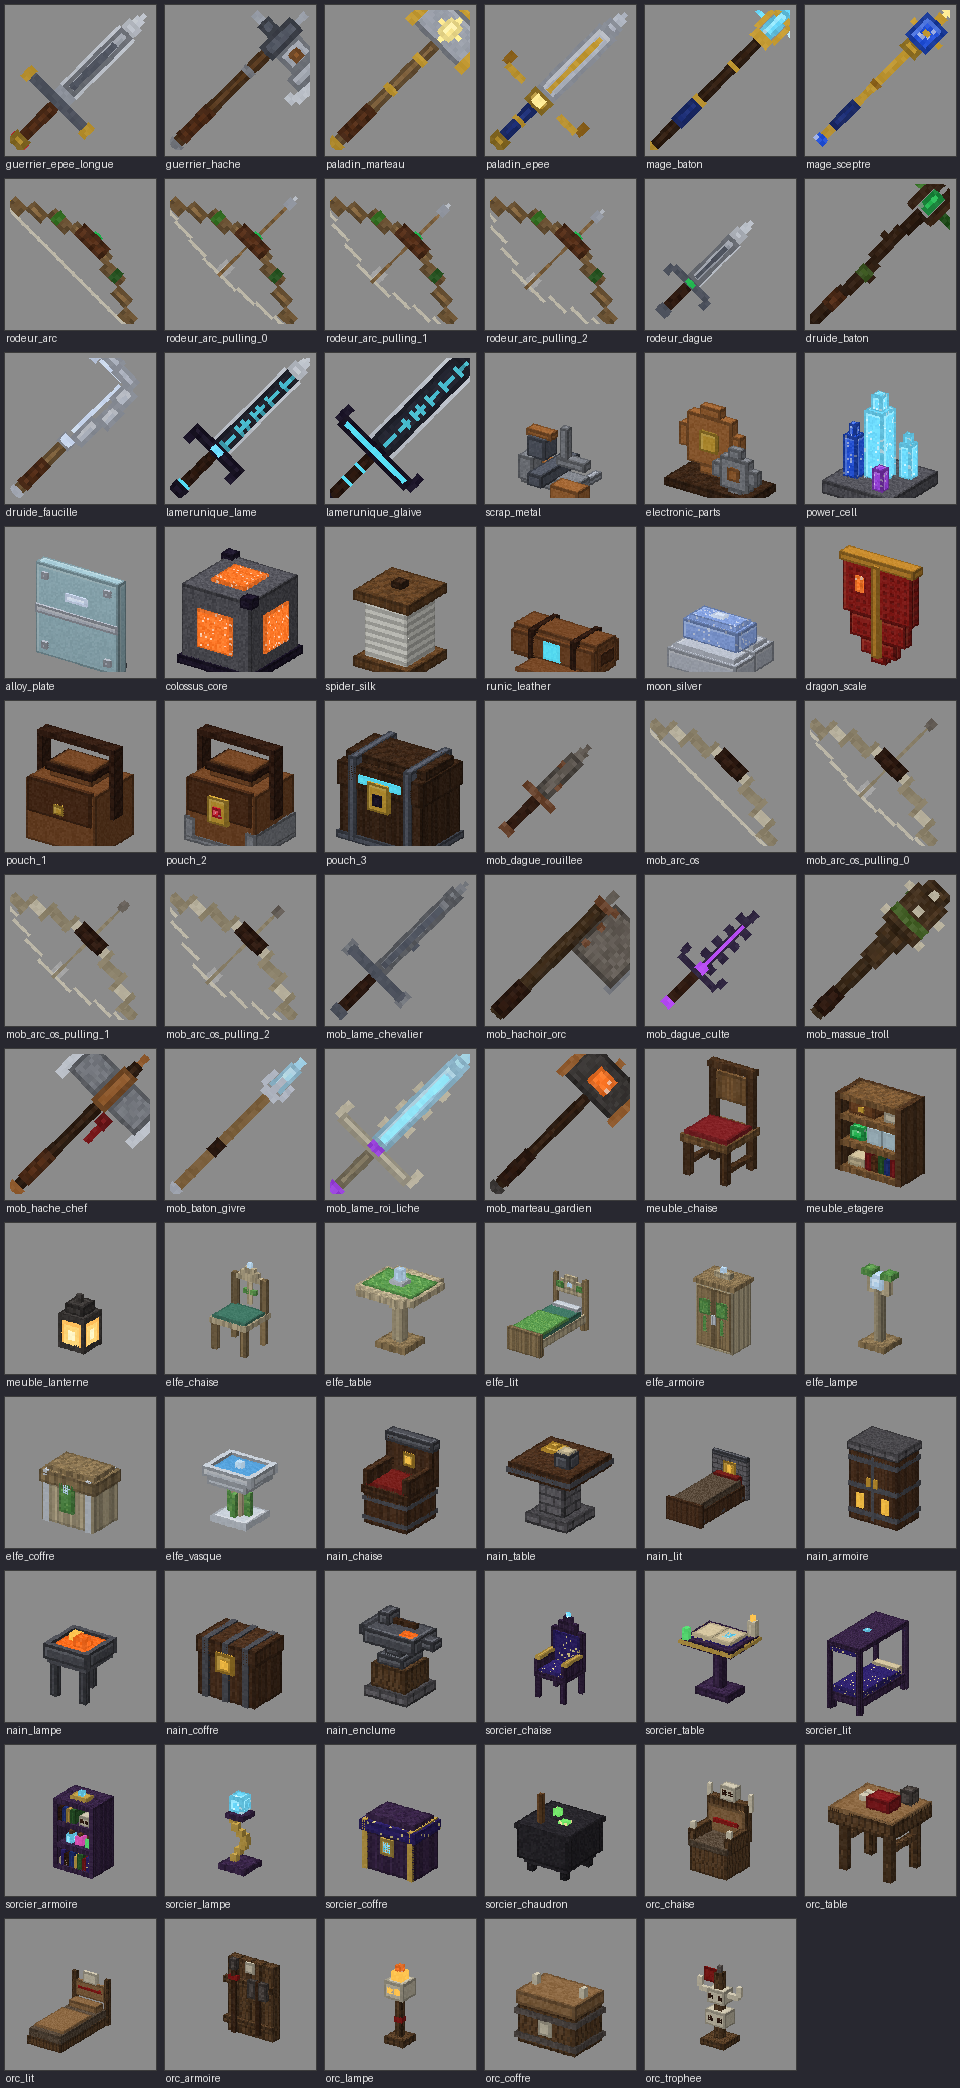
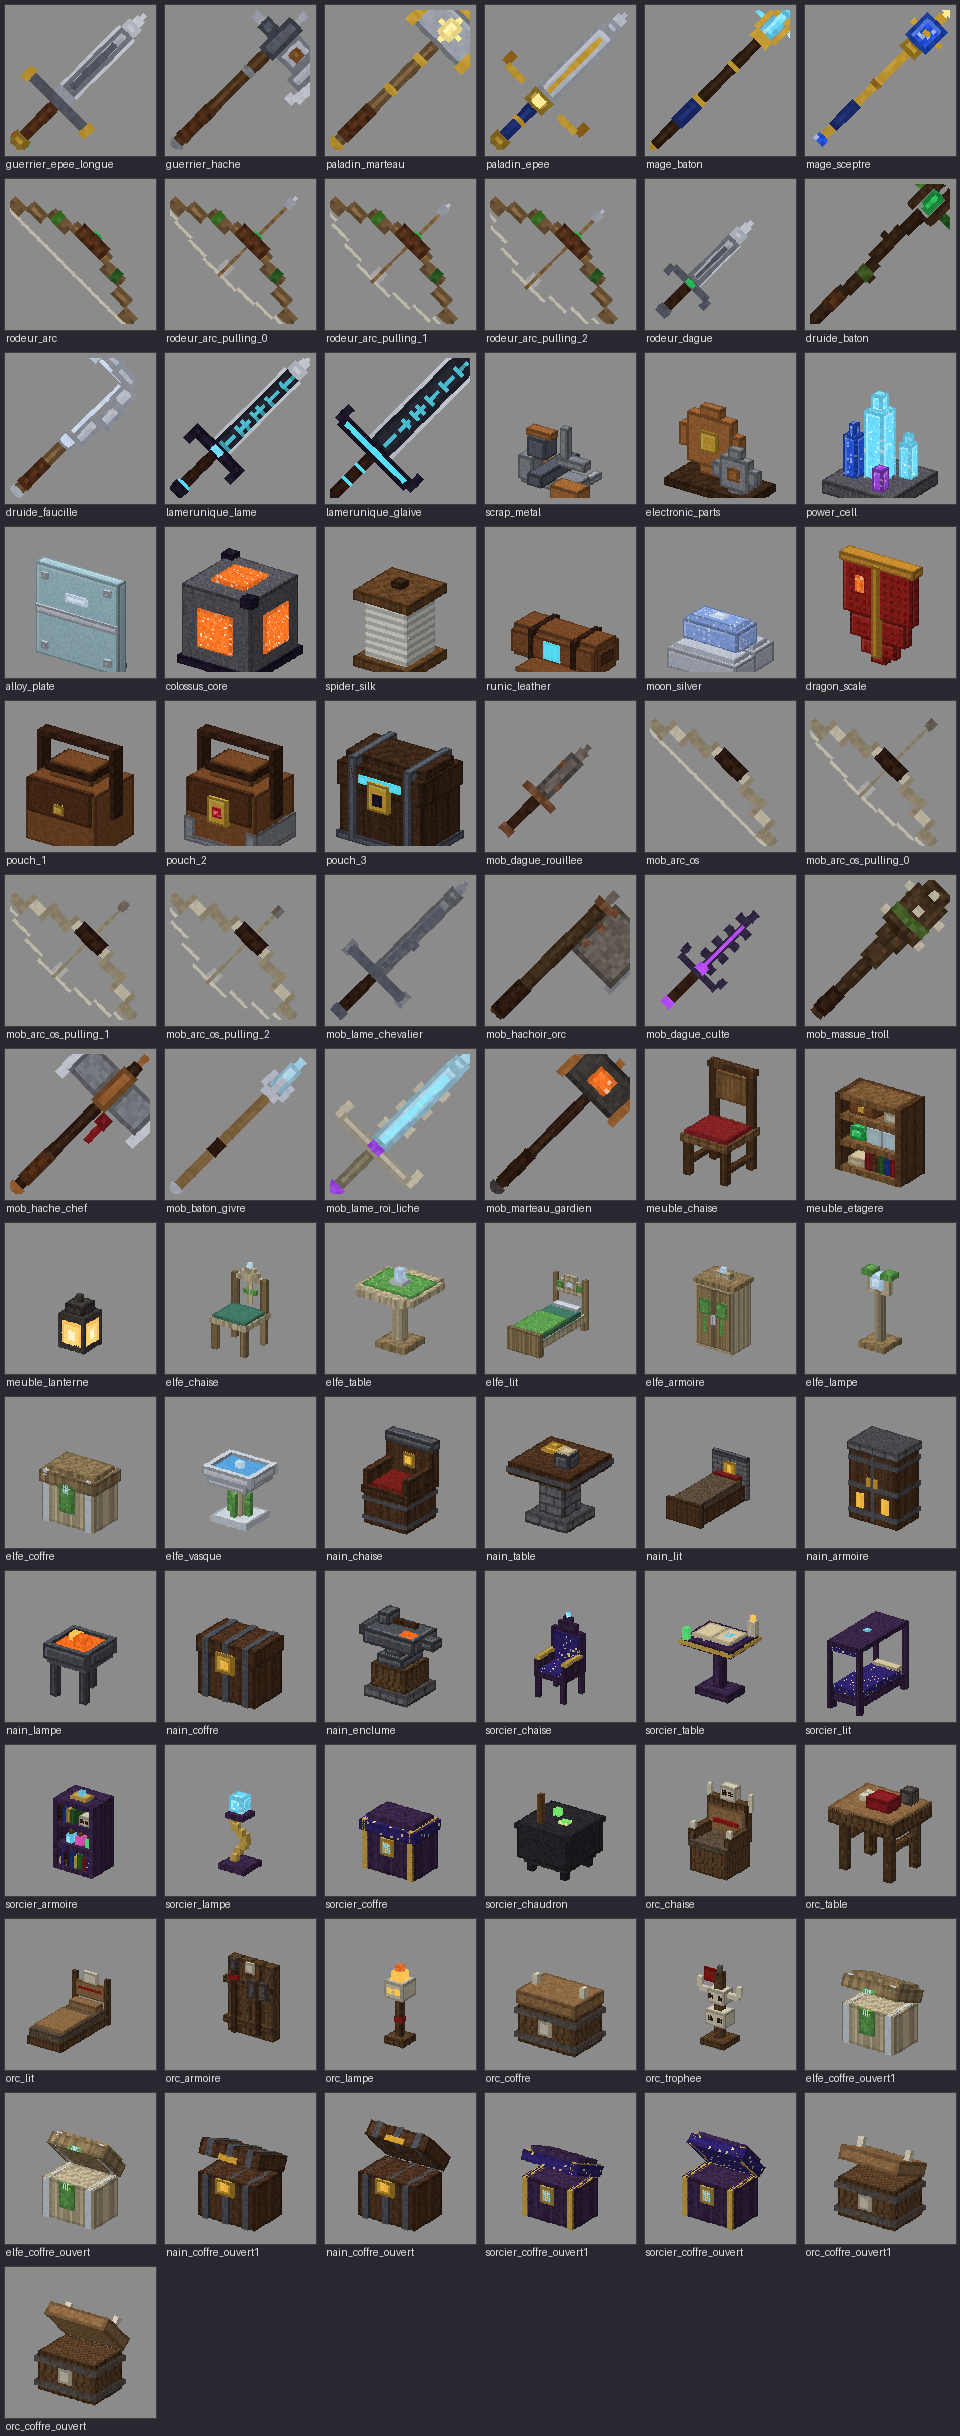
Coffres de style : images de couvercle ouvert pour l'animation d'ouverture
Claude-Session: https://claude.ai/code/session_01KbhmanjnJ4pmktcpPfJYBy

diff --git a/src/items/meubles.py b/src/items/meubles.py
@@ -620,7 +620,37 @@ def fitted(fn):
     return make
 
 
+# Couvercle des coffres : hauteur de la charnière (le couvercle pivote autour de l'arête arrière, côté z haut).
+LIDS = {'elfe_coffre': 8, 'nain_coffre': 9, 'sorcier_coffre': 8, 'orc_coffre': 8}
+
+
+def opened(fn, lid_y, angle, suffix):
+    """Variante du coffre au couvercle soulevé de angle degrés (images de l'animation d'ouverture Oraxen)."""
+    def make():
+        it = fitted(fn)()
+        it.id += suffix
+        els = []
+        for e in it.els:
+            if e['from'][1] < lid_y < e['to'][1]:
+                low, high = dict(e), dict(e)
+                low['to'] = [e['to'][0], lid_y, e['to'][2]]
+                high['from'] = [e['from'][0], lid_y, e['from'][2]]
+                els += [low, high]
+            else:
+                els.append(e)
+        lid = [e for e in els if e['from'][1] >= lid_y]
+        back = max(e['to'][2] for e in lid)
+        for e in lid:
+            e['rot'] = {'angle': angle, 'axis': 'x', 'origin': [8, lid_y, back]}
+        it.els = els
+        return it
+    make.__name__ = fn.__name__ + suffix
+    return make
+
+
 STYLE_ITEMS = [fitted(fn) for _, (_, _, fns) in STYLES.items() for fn in fns]
+_by_name = {fn.__name__: fn for _, (_, _, fns) in STYLES.items() for fn in fns}
+OPEN_ITEMS = [opened(_by_name[k], y, a, s) for k, y in LIDS.items() for a, s in ((22.5, '_ouvert1'), (45, '_ouvert'))]
 
 # nom affiché, type (pour le comportement Oraxen), hauteur d'assise en px
 NAMES = {
@@ -675,6 +705,10 @@ def oraxen_meubles():
             if iid.endswith(('_coffre', '_armoire')):
                 rows = 3 if iid.endswith('_coffre') else 6
                 out += ['      storage:', '        type: STORAGE', f'        rows: {rows}', f'        title: "{name}"']
+                if iid in LIDS:
+                    # images de l'animation, jouées par le correctif Oraxen « model: » (StorageMechanic)
+                    out += [f'        open_animation: "model:evo:{iid}_ouvert1,evo:{iid}_ouvert"',
+                            f'        close_animation: "model:evo:{iid}_ouvert1,evo:{iid}"']
             out += ['      drop:', '        silktouch: false', '        loots:',
                     f'          - {{ oraxen_item: {iid}, probability: 1.0 }}', '']
     path = os.path.join(HERE, 'oraxen', 'items', 'evo_meubles_styles.yml')

diff --git a/src/items/generate.py b/src/items/generate.py
@@ -4,12 +4,12 @@ sys.path.insert(0, os.path.dirname(__file__))
 from PIL import Image, ImageDraw
 from catalog import ALL
 from mobs import MOB_WEAPONS, FURNITURE_ITEMS
-from meubles import STYLE_ITEMS, oraxen_meubles
+from meubles import STYLE_ITEMS, OPEN_ITEMS, oraxen_meubles
 from render import render
 
 CELL = 160
 tiles = []
-for fn in ALL + MOB_WEAPONS + FURNITURE_ITEMS + STYLE_ITEMS:
+for fn in ALL + MOB_WEAPONS + FURNITURE_ITEMS + STYLE_ITEMS + OPEN_ITEMS:
     it = fn()
     out = it.save(getattr(it, 'variants', None))
     for suffix, (name, img, elements, display) in out.items():

diff --git a/src/items/kit.py b/src/items/kit.py
@@ -251,7 +251,9 @@ class Item:
                 s = 16 / W
                 faces[f] = {'uv': [X * s, Y * s, (X + w) * s, (Y + hh) * s], 'texture': '#0'}
             el = {'from': e['from'], 'to': e['to'], 'faces': faces}
-            if self.tilt:
+            if e.get('rot'):
+                el['rotation'] = e['rot']
+            elif self.tilt:
                 el['rotation'] = {'angle': self.tilt, 'axis': 'z', 'origin': [8, 8, 8]}
             lv = e['light'] if e['light'] is not None else light
             if lv:

diff --git a/src/items/render.py b/src/items/render.py
@@ -33,7 +33,7 @@ def render(img, elements, display, size=256, view='gui'):
     light = [v / ln for v in light]
     for e in elements:
         rz = e.get('rotation')
-        Rz = rot('z', rz['angle']) if rz else None
+        Rz = rot(rz.get('axis', 'z'), rz['angle']) if rz else None
 
         def tf(p):
             p = list(p)
